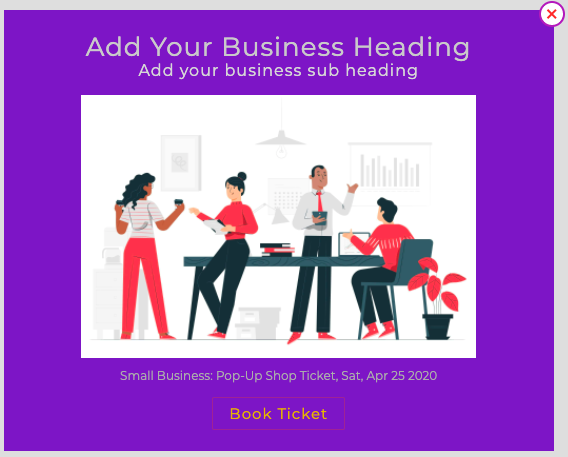
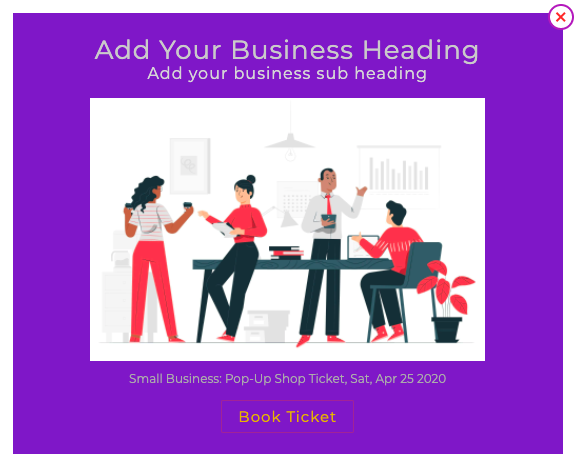
full width popup layout addded

Changed region(s): [[0.0, 0.0, 1.0, 1.0], [0.1496, 0.0613, 0.838, 0.1838], [0.4789, 0.2757, 0.5088, 0.3063]]

diff --git a/js/script.js b/js/script.js
@@ -654,6 +654,7 @@ var Custom_popup_editor = {
 			if ( setHiddenInput.val() ) {
 				setHiddenInput = JSON.parse(setHiddenInput.val());
 			}
+			if('layout' in setHiddenInput)$('.wppb-popup-custom').addClass(setHiddenInput['layout']);
 			if (dataInput == 'main-wrapper') {
 				if(sepInput.data('show-range') == "wrapper-width"){
 					Custom_popup_editor._inputRange(sepInput,$('.wppb-popup-custom .wppb-popup-custom-wrapper'),'width');
@@ -933,7 +934,7 @@ var Custom_popup_editor = {
 				}else{
 					getLayout = $('.prebuilt-pupup-layout-container > div[data-layout="'+layoutName+'"]').html();
 				}
-
+				$('.wppb-popup-custom').addClass(layoutName);
 				let saveLAyout = {layout:layoutName,'popup-name':popupName};
 				let outSideColor   = $('.wppb-popup-name-layout input[name="wppb-popup-layout"]:checked').data('outside-color');
 				if (outSideColor) saveLAyout['outside-color'] = outSideColor;
@@ -949,29 +950,6 @@ var Custom_popup_editor = {
 			}
 	},
 	_leadFormOpenPanel:function(){
-		// function scrollFn(){
-		// 	let headerOffset =  $('.rl_i_editor-header-area').offset().top + $('.rl_i_editor-header-area').outerHeight() + 10;
-		// 	let scrElem = $('.rl_i_editor-content-area');
-		// 	let scrElem2 = $('.rl-lead-form-panel');
-
-		// 	let panelOff = scrElem2.offset().top; 
-		// 	let offsetApply = panelOff - headerOffset;
-		// 	let panelOuterHeight = scrElem2.outerHeight();
-		// 	let editorOuterHeight = scrElem.outerHeight(); 
-		// 	if (editorOuterHeight > panelOuterHeight) {
-		// 		offsetApply = (editorOuterHeight - panelOuterHeight) + headerOffset; 
-		// 	}
-		// 	let scrollEnable = true;
-		// 	if (panelOff == headerOffset || panelOff < headerOffset || (offsetApply == panelOff) ) {
-		// 		scrollEnable = false;
-		// 	}
-		// 	if (scrollEnable) {
-		// 		scrElem.animate({scrollTop:offsetApply});
-		// 	}
-		// }
-		// setTimeout(scrollFn,600);
-
-
 		let getForm = $(this);
 		$('.rl-lead-form-panel').slideDown('fast');
 		// scrolling function apply

diff --git a/js/fscript.js b/js/fscript.js
@@ -38,7 +38,7 @@
 				 let popupOpenTime       = 'popup-delay-open' in setting_ ? setting_['popup-delay-open'] : 4;
 				 popupOpenTime  = popupOpenTime * 1000;
 				 let popupAutoClose       = 'popup-delay-close' in setting_ ? parseInt(setting_['popup-delay-close']) : 0;
-
+				 let popupLayout = 'layout' in setting_ ? setting_['layout'] : '';
 				 let effectClass = 'wppb-effect-one';
 				 switch ( getEffect ){
 			 		case 2:
@@ -50,13 +50,13 @@
 			 		case 4:
 			 		effectClass = 'wppb-effect-two';
 				 }
-				 let renderTohtml = '<div id="wppbPopupShow" class="wppb-popup-main-wrap '+effectClass+'"><div>';
+				 let renderTohtml = '<div id="wppbPopupShow" class="wppb-popup-main-wrap '+effectClass+' '+popupLayout+'"><div>';
 				 renderTohtml += getHTml;
 				 renderTohtml += '</div></div>';
 				 
 				 function addActivePopup(){
 				 	$('body').append(renderTohtml);
-				 	let wppbPopupShow = $('#wppbPopupShow'); 
+				 	let wppbPopupShow = $('#wppbPopupShow');
 				 	// set auto height
 				 	let getContentHeight = wppbPopupShow.find('.wppb-popup-custom-content');
 				 	if (getContentHeight.outerHeight() > (window.innerHeight - 150) ) {

diff --git a/css/fstyle.css b/css/fstyle.css
@@ -112,7 +112,7 @@ font-weight: 600;
 .wppb-popup-main-wrap .wppb-popup-rl-wrap a{
         display: block;
     line-height: 1;
-    color: white;
+    color: #cacaca;
     font-size: 16px;
     text-align: center;
     width: 100%;
@@ -426,6 +426,11 @@ font-weight: 600;
                  margin: calc(5px / 100 * 70) 0;
             font-size: calc(15px / 100 * 70);
         }
+        /*full width layout*/
+
+        #wppbPopupShow.layout-full-width > div{
+            max-width: 100%;
+        }
 }
 
 /*effect css */
@@ -526,7 +531,28 @@ font-weight: 600;
     }
 }
 
-
+/*full width layout*/
+#wppbPopupShow.layout-full-width{
+    display: block;
+}
+#wppbPopupShow.layout-full-width > div{
+        width: 100%;
+    min-height: 100%;
+    height: 100%;
+}
+#wppbPopupShow.layout-full-width .wppb-popup-custom-wrapper{
+        width: 100%!important;
+    min-height: 100%;
+    display: flex;
+    align-items: center;
+    justify-content: center;
+}
+#wppbPopupShow.layout-full-width .wppb-popup-custom-content{
+    width: 100%;
+}
+#wppbPopupShow.layout-full-width .wppb-popup-custom-content .wppb-popup-rl-column{
+    width: 100%;
+}
 
 
 

diff --git a/css/popup-style.css b/css/popup-style.css
@@ -306,7 +306,7 @@ a:focus{
 .wppb-popup-custom [data-rl-editable]:before,
 .wppb-popup-custom .wppb-popup-lead-form:before,
 .wppb-popup-custom .data-rl-editable-wrap.wrap-image_:before{
-        content: 'Text';
+    content: 'Text';
     font-size: 14px;
     position: absolute;
     background: #6747e6;
@@ -613,4 +613,24 @@ a:focus{
         outline: 1px dotted #f7efac;
     outline-offset: -1px;
     padding: 10px 0;
+}
+
+/*full width layout*/
+.wppb-popup-custom.layout-full-width{
+       padding: 0;
+    min-width: 832px;
+    max-width: 832px;
+}
+.wppb-popup-demo .wppb-popup-custom.layout-full-width > div{
+    width: 100%;
+}
+.wppb-popup-custom.layout-full-width .wppb-popup-custom-wrapper{
+        width: 100%!important;
+    min-height: 500px;
+    display: flex;
+    justify-content: center;
+    align-items: center;
+}
+.wppb-popup-custom.layout-full-width .wppb-popup-custom-wrapper .wppb-popup-custom-content{
+    width: 100%;
 }

diff --git a/inc/prebuilt-popup.php b/inc/prebuilt-popup.php
@@ -137,7 +137,35 @@ if ( is_array( $responseResult_ ) && ! is_wp_error( $responseResult_ ) ) {
 									</div>
 					          </div>
 					</div>
-				</div>	
+				</div>
+		<!-- layout 4	 -->
+		<div data-layout="layout-full-width">
+					<span class="wppb-popup-close-btn dashicons dashicons-no-alt" style="top: 2%;right: 2%;border: 2px solid #652d2e;border-radius: 15px;padding: 1px;background-color: #ffffff;color: #4C0C0CD8;"></span>
+				<div class="wppb-popup-custom-wrapper">	 	
+							<div class="wppb-popup-overlay-custom-img" data-overlay-image="http://192.168.64.2/wordpress/wp-content/uploads/2020/05/images-scaled.jpg" style="background-image: url('http://192.168.64.2/wordpress/wp-content/uploads/2020/05/images-scaled.jpg');"></div>
+					         <div class="wppb-popup-custom-overlay" style="background-color:#3A0517A6;"></div>
+					          <div class="wppb-popup-custom-content" style="padding: 2px 37px 18px;">
+					          		<div data-rl-wrap="layout-1" class="wppb-popup-rl-wrap rl-clear">
+										<div data-rl-column="1" class="wppb-popup-rl-column rlEditorDropable ui-sortable">
+
+											<div class="data-rl-editable-wrap ui-sortable-handle" style="justify-content: center;">
+												<div class="actions_"><span class="dashicons dashicons-no rlRemoveElement"></span></div>
+												<span class="text-heading rl-editable-key-action" data-rl-editable="heading" style="font-size: 26px; line-height: 30px; width: 81%;" data-content-alignment="center">Subscribe To Our Newsletter For Best Monthly Deals Discounts For Your Pets!</span>
+											</div>
+											<div class="data-rl-editable-wrap ui-sortable-handle" style="justify-content: center;">
+												<div class="actions_">
+												<span class="dashicons dashicons-no rlRemoveElement"></span></div>
+												<span data-rl-editable="text" style="font-size: 16px; margin: 15px 0px; color: rgb(214, 214, 214); width: 75%;" data-content-alignment="center">Be a part of our subscription and stay updated with the latest deals we offer.</span>
+											</div>
+											<div class="data-rl-editable-wrap ui-sortable-handle" style="justify-content: center;">
+												<div class="actions_"><span class="dashicons dashicons-no rlRemoveElement"></span></div>
+												<span data-rl-editable="link" data-content-alignment="center" data-editor-link="#" style="width: fit-content; padding: 8px 16px; border: 1px solid rgba(211, 74, 74, 0.35); color: rgba(226, 178, 32, 1);font-size: 15px; border-radius:2px;">Book Ticket</span>
+											</div>
+										</div>
+									</div>
+					          </div>
+					</div>
+				</div>
 				<!-- json data layout -->
 				<?php echo $jsonPopupHtml; ?>
 	<!-- layout 3 -->
@@ -156,6 +184,11 @@ if ( is_array( $responseResult_ ) && ! is_wp_error( $responseResult_ ) ) {
 				<li>
 					<input id='wppb-popup-layout-label__layout-3' type="radio" name="wppb-popup-layout" value="layout-3">
 					<label for="wppb-popup-layout-label__layout-3"><img src="<?php echo esc_url(WPPB_URL."img/layout-3.png","wppb");?>"></label>
+				</li>
+
+				<li>
+					<input id='wppb-popup-layout-label__layout-4' type="radio" name="wppb-popup-layout" value="layout-full-width">
+					<label for="wppb-popup-layout-label__layout-4"><img src="<?php echo esc_url(WPPB_URL."img/full-width-layout.png","wppb");?>"></label>
 				</li>
 			</ul>
 		</div>

diff --git a/inc/popup-custom.php b/inc/popup-custom.php
@@ -4,7 +4,7 @@ if ( ! defined( 'ABSPATH' ) ) exit;
 <input type="hidden" name="popup-url" value="<?php echo WPPB_URL ?>">
 <input type="hidden" data-global-save="global-content" value='<?php echo $popupSetData["global_content"]; ?>'>
 
-<div class="wppb-popup-custom <?php echo !$get_CustomPopup ?'rl-display-none':'' ?>" style="background-color:<?php echo $popupSetData['outside-color']; ?>;">
+<div class="wppb-popup-custom <?php echo !$get_CustomPopup ?'rl-display-none ':'';?>" style="background-color:<?php echo $popupSetData['outside-color']; ?>;">
 	<div>
 	         <?php echo $wp_builder_obj->popup_layout($popupSetData); ?>	
 	</div>	

diff --git a/wp-popup-builder.php b/wp-popup-builder.php
@@ -1,6 +1,6 @@
 <?php
 /*
-  Plugin Name: WP Popup Builder
+  Plugin Name: WP Popup Builder new
   Description: WP Popup Builder is a powerfull tool to create amazing popup form for your site. Its drag and drop feature helps to create form in very easy step without having knowledge of coding. And also you can easily design and edit your form using easy to use interface. It has ready to use "Pre Built Popup" to give a quick start for your form, Also you can create your own design by choosing three different "Layouts" available. Images, Heading, Text, Button and even external form can be added to it.
   Version: 1.0.1
   Author: ThemeHunk

diff --git a/admin/db.php b/admin/db.php
@@ -177,7 +177,7 @@ public function wppb_html($setting,$inline=''){
           'lead-form' => '',
           'global-content-id'=>false
           );
-      $popupFrontSetting = ['close-type'=>3,'outside-color'=>'#535353F2','effect'=>1,'popup-delay-open'=>3,'popup-delay-close'=>0];
+      $popupFrontSetting = ['layout'=>'','close-type'=>3,'outside-color'=>'#535353F2','effect'=>1,'popup-delay-open'=>3,'popup-delay-close'=>0];
       $allSetting = unserialize($setting);  
 
       // print_r($allSetting);
